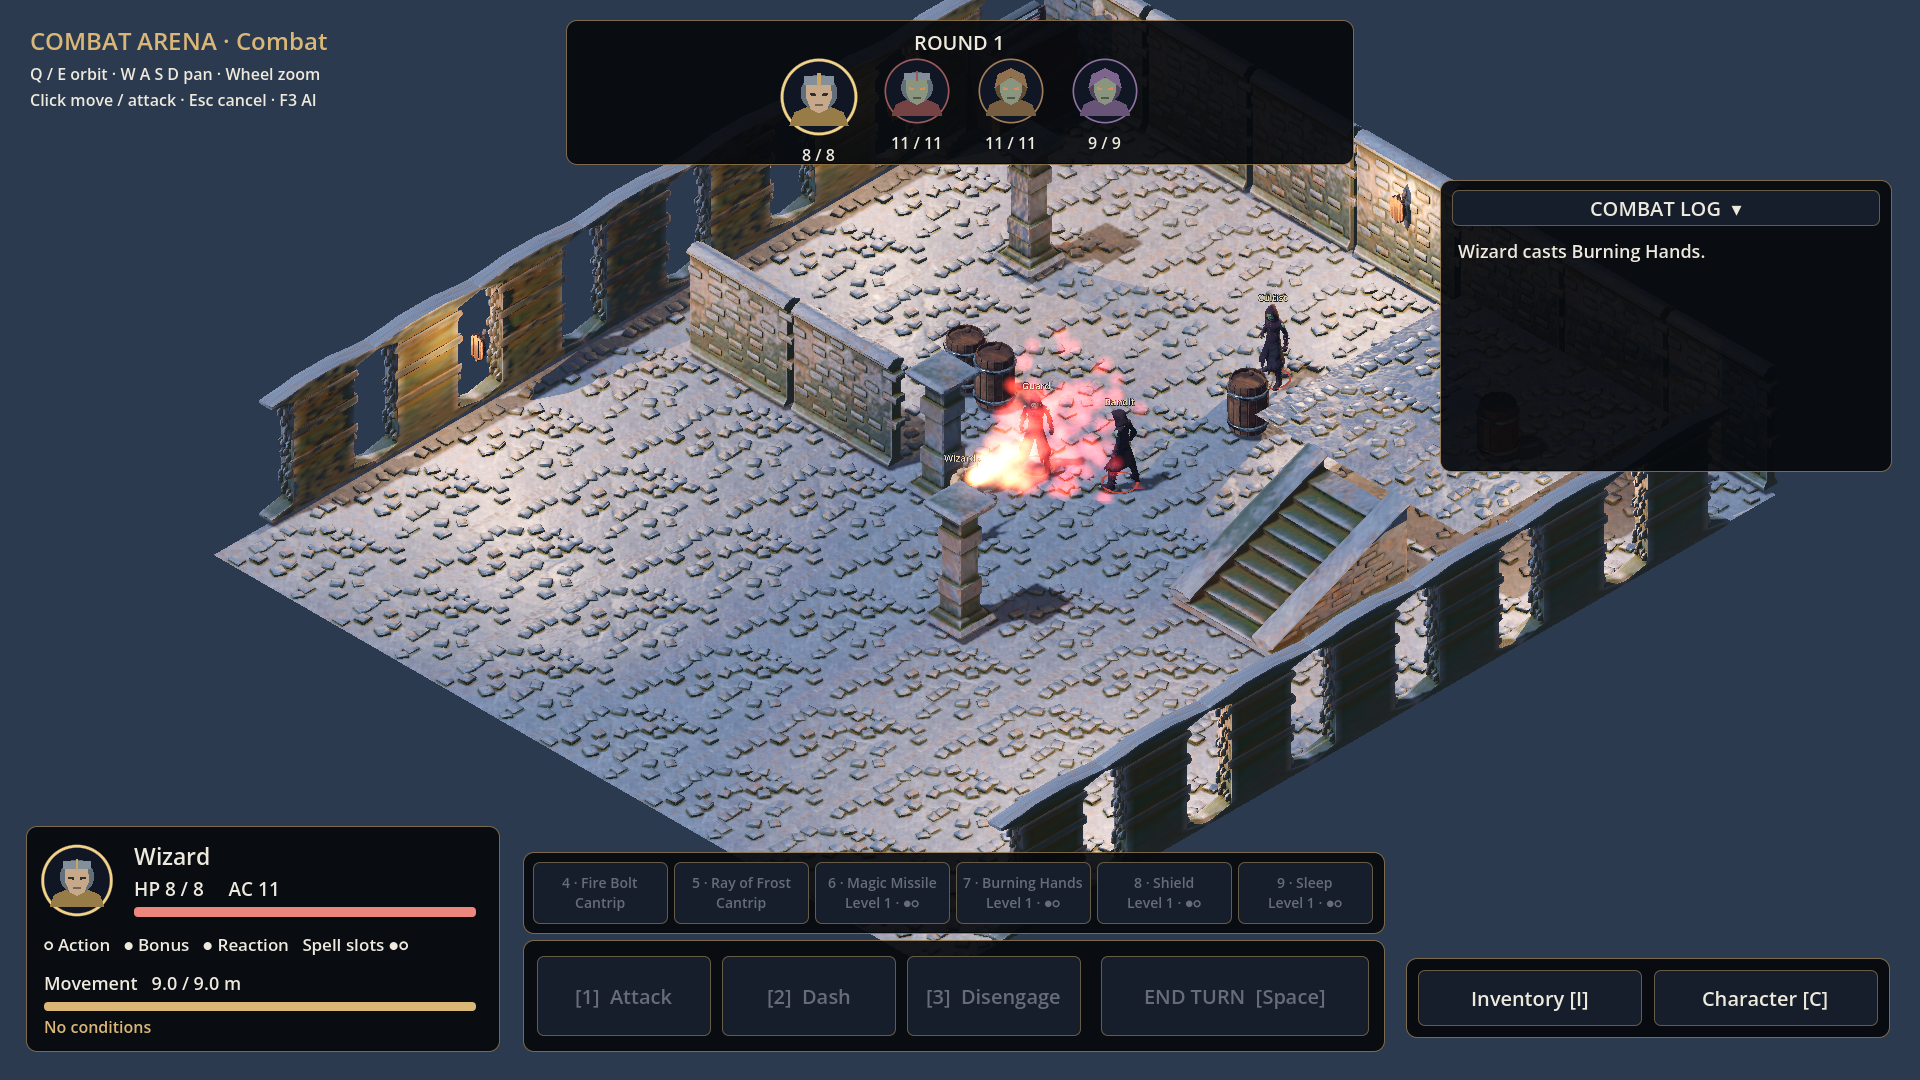
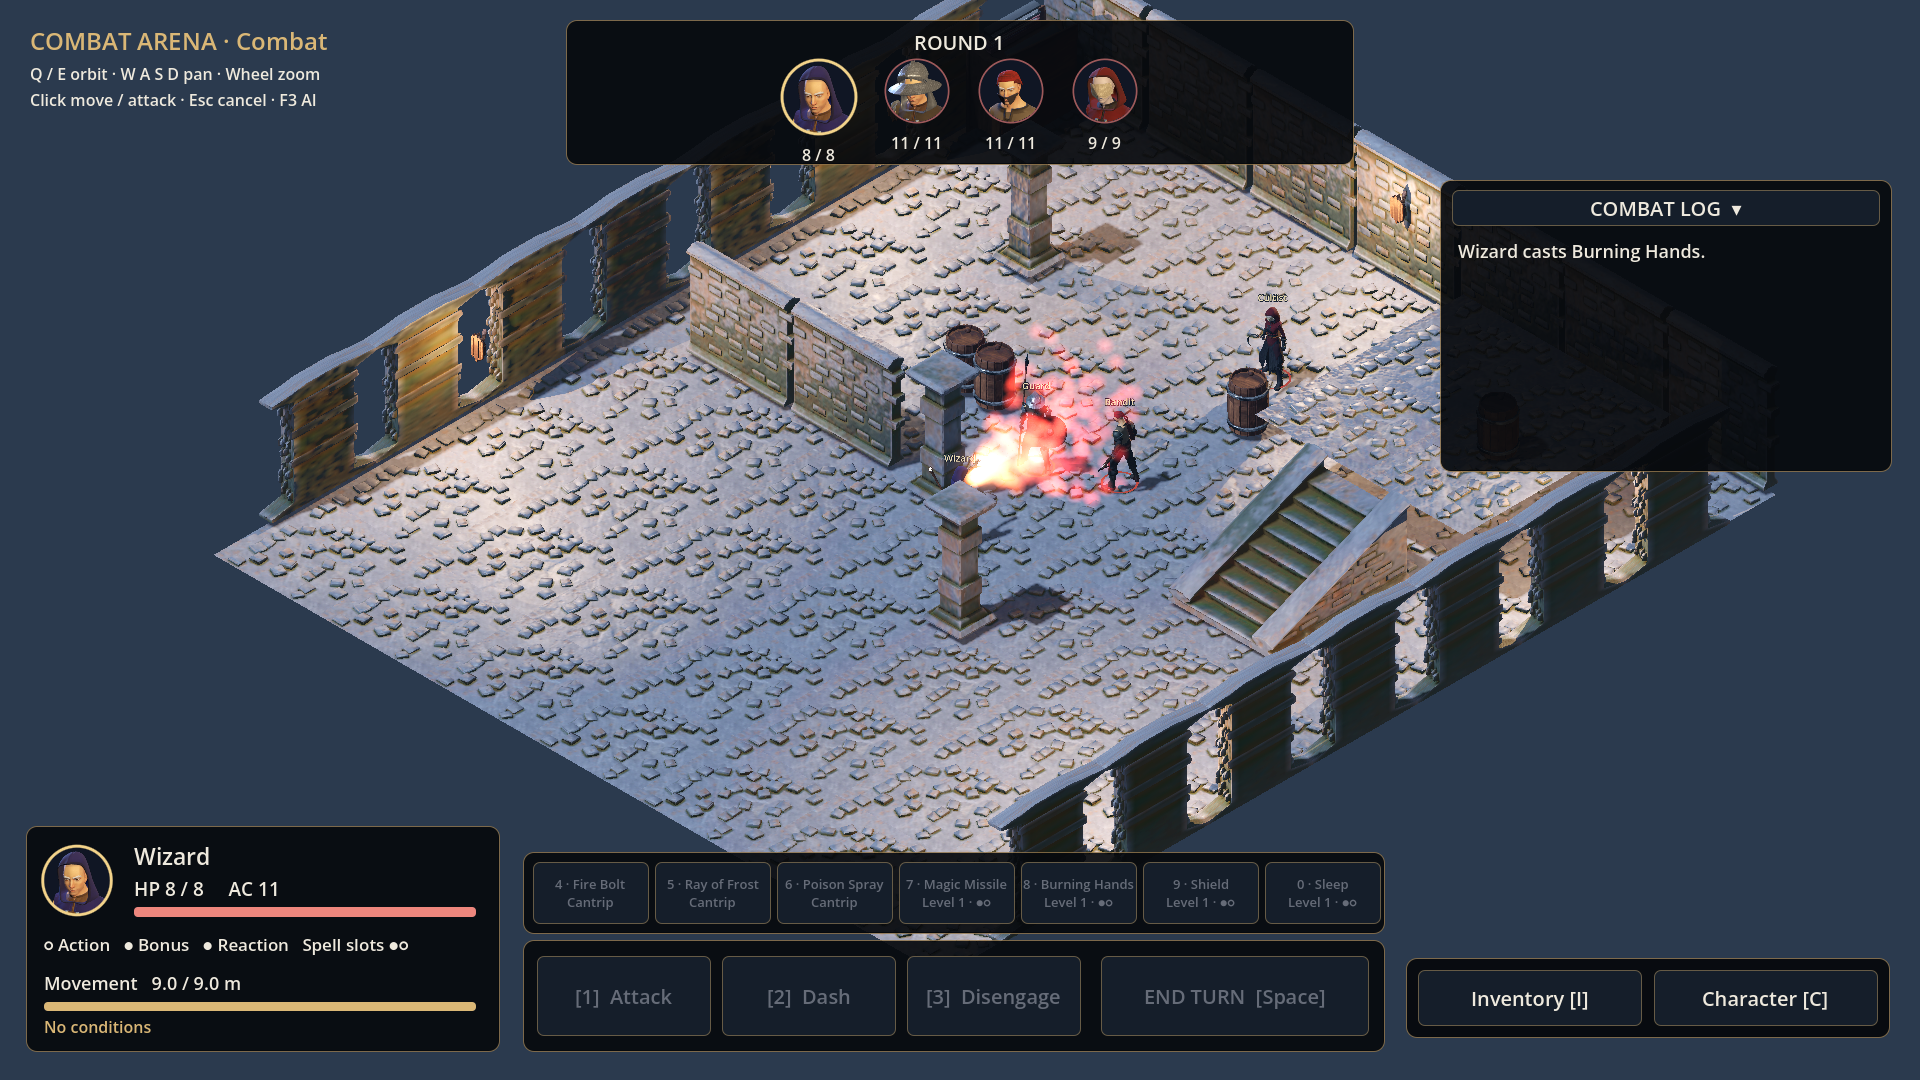
Wizard knows Poison Spray as third cantrip (owner's wish for a strong one)
1d12 poison ranged spell attack with its own effect. The spell bar fits
seven buttons and key 0 casts the seventh.

Claude-Session: https://claude.ai/code/session_01Kx2zyRK75iRp8h9hCBW7Wp

diff --git a/handover/10-10-2026.md b/handover/10-10-2026.md
@@ -7,7 +7,7 @@ Prompts 01b, 02, 03 and 04 are done (CI green, verified by Claude). The arena is
 - [ ] Q31 Dialogue and story: who writes what? (Claude's recommendation: the owner sets the story direction and the big decisions, Claude writes the dialogue drafts, the owner approves or changes them, Codex only builds the dialogue system. Before that Claude asks a few story questions.)
 - [ ] Q32 Inventory: should defeated enemies drop loot (their weapons, gold, potions) that you pick up, like in BG3? And should carrying weight matter (slower when overloaded) or stay information only? (Claude's recommendation: loot yes, weight information only for M1.)
 - [x] Q33 (owner 13-10: "Overcity") Game title: the main menu shows the placeholder "THE RPG" (config name). What should the game be called? (No recommendation - your call; the menu reads it from MENU_TITLE in localization/strings.csv.)
-- [ ] Q34 (prompt 05) PART ANSWERED 13-10-2026: Fighting Style = Great Weapon Fighting (owner). Still open: the Wizard's third cantrip (Claude's proposal: Light). Test heroes: which Fighting Style should the Fighter have (SRD 5.2 feats: Archery, Defense, Great Weapon Fighting, Two-Weapon Fighting), and which third cantrip should the Wizard know? Until then: no style, two cantrips (Fire Bolt, Ray of Frost).
+- [x] Q34 (prompt 05) ANSWERED 13-10-2026: Fighting Style = Great Weapon Fighting, Fighter starts with a greatsword; Wizard's third cantrip = a strong one (Poison Spray, not Light). Test heroes: which Fighting Style should the Fighter have (SRD 5.2 feats: Archery, Defense, Great Weapon Fighting, Two-Weapon Fighting), and which third cantrip should the Wizard know? Until then: no style, two cantrips (Fire Bolt, Ray of Frost).
 - [x] Q35 (prompt 07) ANSWERED 13-10-2026: keep normal Git, new guideline 100 MB for now (can be raised later). Asset size: `assets/` is now about 67 MB, above the 50 MB guideline from prompt 01 (largest single file 2.5 MB; GitHub only requires LFS from 100 MB per file). Keep everything as normal Git files and raise the guideline (Claude's recommendation: LFS bandwidth quota of 1 GB/month would run out after a few CI runs), or set up Git LFS?
 
 Story questions for the dialogues (10-10, owner works on dialogues now):

diff --git a/handover/13-10-2026.md b/handover/13-10-2026.md
@@ -154,3 +154,10 @@ One entry per task. Newest at the bottom.
 - Task: Owner clarified: in combat EVERY take costs an action; outside combat free.
 - Changed files: src/rules/items/loot_rules.gd (loot_round removed, each take needs and spends the action), localization/strings.csv (LOOT_COMBAT_COST), tests/unit/items/test_loot.gd, docs/UI.md 9.1.
 - What was done: One item, the gold or "take all" each cost the action in combat. Tests green locally.
+
+### 17:00 - Claude (thread "Magier und Zauber", Wizard's third cantrip)
+- Task: Owner: not Light, give the Wizard a stronger third cantrip (answers the rest of Q34).
+- Changed files: src/world/hero_kit.gd (Poison Spray as third cantrip, wizard_cantrip choice gone, older saves upgraded), src/world/vfx/spells/spell_vfx.gd (green poison bolt and burst), src/ui/combat_hud.gd (7+ buttons share the bar width, hotkey 0 for the seventh), src/world/arena.gd (key 0), tests/unit/features/test_class_features.gd (2 tests), tests/unit/progression/test_level_up.gd (level-4 cantrip pick is now Acid Splash, since Poison Spray is known from level 1), tests/integration/check_spells.gd (7 buttons), docs/arena-spell-*.png (refreshed), handover/10-10-2026.md (Q34 answered).
+- What was done: Poison Spray (SRD 5.2: ranged spell attack, 9 m, 1d12 poison, the biggest damage die among the SRD cantrips). Known cantrips at level 1: Fire Bolt, Ray of Frost, Poison Spray. 299 unit tests and all integration checks green locally.
+- Notes / next step: Poison does nothing against poison-immune foes (many undead); Fire Bolt stays the answer there. Acid Splash still has no spell effect (package 08 added it without VFX).
+
